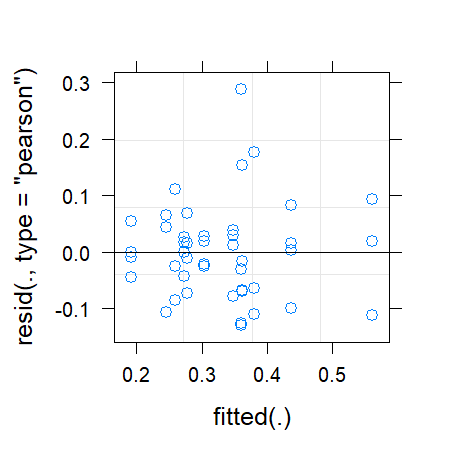
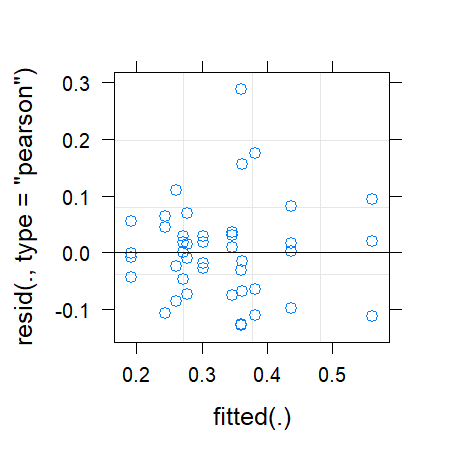
changing markdown file of community variability

diff --git a/Community Variability Analyses/Community-Variability-Analyses.md b/Community Variability Analyses/Community-Variability-Analyses.md
@@ -14,25 +14,9 @@ library(Pelinson.et.al.2020B)
 
 ``` r
 library(lme4)
-```
-
-    ## Loading required package: Matrix
-
-``` r
 library(car)
-```
-
-    ## Loading required package: carData
-
-    ## Registered S3 methods overwritten by 'car':
-    ##   method                          from
-    ##   influence.merMod                lme4
-    ##   cooks.distance.influence.merMod lme4
-    ##   dfbeta.influence.merMod         lme4
-    ##   dfbetas.influence.merMod        lme4
-
-``` r
 library(emmeans)
+library(vegan)
 ```
 
 ## Community Variability
@@ -52,27 +36,10 @@ Computing observed and expected distances to centroid, and
 beta-deviation.
 
 ``` r
-beta_deviation_SS2_SS3 <- beta_deviation(com_SS2_SS3, strata = All, times = 1000,
+beta_deviation_SS2_SS3 <- beta_deviation(com_SS2_SS3, strata = All, times = 10000,
                                       transform = NULL, dist = "bray", fixedmar="both",
                                       shuffle = "both", method = "quasiswap", seed = 2, group = All) 
 ```
-
-    ## Loading required package: vegan
-
-    ## Loading required package: permute
-
-    ## Loading required package: lattice
-
-    ## This is vegan 2.5-6
-
-    ## Warning in betadisper(null_dissim, group = group, type = "centroid", bias.adjust
-    ## = T): some squared distances are negative and changed to zero
-    
-    ## Warning in betadisper(null_dissim, group = group, type = "centroid", bias.adjust
-    ## = T): some squared distances are negative and changed to zero
-    
-    ## Warning in betadisper(null_dissim, group = group, type = "centroid", bias.adjust
-    ## = T): some squared distances are negative and changed to zero
 
 Looking at residual plots for observed, expected distances to centroids
 and deviations.
@@ -112,11 +79,6 @@ qqline(resid(fit_expected_SS2_SS3_G, type = "pearson"))
 
 ``` r
 fit_deviation_SS2_SS3_G <- lmer(beta_deviation_SS2_SS3$deviation_distances~fish_SS2_SS3*isolation_SS2_SS3*SS_SS2_SS3 + (1|ID_SS2_SS3), REML = F)
-```
-
-    ## boundary (singular) fit: see ?isSingular
-
-``` r
 plot(fit_deviation_SS2_SS3_G)
 ```
 
@@ -240,14 +202,14 @@ round(Anova(fit_expected_SS2_SS3, test.statistic = "F"),3)
     ## Analysis of Deviance Table (Type II Wald F tests with Kenward-Roger df)
     ## 
     ## Response: beta_deviation_SS2_SS3$expected_distances
-    ##                                               F Df Df.res Pr(>F)  
-    ## fish_SS2_SS3                              0.011  1 16.626  0.918  
-    ## isolation_SS2_SS3                         3.608  2 16.546  0.050 *
-    ## SS_SS2_SS3                                3.509  1 16.421  0.079 .
-    ## fish_SS2_SS3:isolation_SS2_SS3            4.120  2 16.651  0.035 *
-    ## fish_SS2_SS3:SS_SS2_SS3                   0.156  1 16.574  0.698  
-    ## isolation_SS2_SS3:SS_SS2_SS3              6.073  2 16.483  0.011 *
-    ## fish_SS2_SS3:isolation_SS2_SS3:SS_SS2_SS3 3.325  2 16.604  0.061 .
+    ##                                               F Df Df.res Pr(>F)   
+    ## fish_SS2_SS3                              0.013  1 16.626  0.909   
+    ## isolation_SS2_SS3                         3.489  2 16.546  0.054 . 
+    ## SS_SS2_SS3                                3.588  1 16.421  0.076 . 
+    ## fish_SS2_SS3:isolation_SS2_SS3            4.117  2 16.651  0.035 * 
+    ## fish_SS2_SS3:SS_SS2_SS3                   0.167  1 16.574  0.688   
+    ## isolation_SS2_SS3:SS_SS2_SS3              6.199  2 16.483  0.010 **
+    ## fish_SS2_SS3:isolation_SS2_SS3:SS_SS2_SS3 3.383  2 16.604  0.059 . 
     ## ---
     ## Signif. codes:  0 '***' 0.001 '**' 0.01 '*' 0.05 '.' 0.1 ' ' 1
 
@@ -258,27 +220,27 @@ emmeans(fit_expected_SS2_SS3, list(pairwise ~ isolation_SS2_SS3|fish_SS2_SS3|SS_
     ## $`emmeans of isolation_SS2_SS3 | fish_SS2_SS3, SS_SS2_SS3`
     ## fish_SS2_SS3 = absent, SS_SS2_SS3 = 2:
     ##  isolation_SS2_SS3 emmean     SE df lower.CL upper.CL
-    ##  30                 0.273 0.0488 32   0.1502    0.396
-    ##  120                0.348 0.0488 32   0.2248    0.470
-    ##  480                0.278 0.0488 32   0.1552    0.401
+    ##  30                 0.271 0.0488 32   0.1482    0.394
+    ##  120                0.346 0.0488 32   0.2235    0.469
+    ##  480                0.278 0.0488 32   0.1551    0.401
     ## 
     ## fish_SS2_SS3 = present, SS_SS2_SS3 = 2:
     ##  isolation_SS2_SS3 emmean     SE df lower.CL upper.CL
-    ##  30                 0.304 0.0488 32   0.1815    0.427
-    ##  120                0.437 0.0488 32   0.3141    0.560
-    ##  480                0.192 0.0488 32   0.0688    0.314
+    ##  30                 0.303 0.0488 32   0.1797    0.425
+    ##  120                0.437 0.0488 32   0.3145    0.560
+    ##  480                0.192 0.0488 32   0.0688    0.315
     ## 
     ## fish_SS2_SS3 = absent, SS_SS2_SS3 = 3:
     ##  isolation_SS2_SS3 emmean     SE df lower.CL upper.CL
-    ##  30                 0.362 0.0488 32   0.2392    0.485
-    ##  120                0.360 0.0488 32   0.2377    0.483
-    ##  480                0.380 0.0573 32   0.2360    0.525
+    ##  30                 0.362 0.0488 32   0.2388    0.484
+    ##  120                0.360 0.0488 32   0.2371    0.483
+    ##  480                0.381 0.0573 32   0.2365    0.525
     ## 
     ## fish_SS2_SS3 = present, SS_SS2_SS3 = 3:
     ##  isolation_SS2_SS3 emmean     SE df lower.CL upper.CL
     ##  30                 0.561 0.0573 32   0.4164    0.705
-    ##  120                0.246 0.0573 32   0.1012    0.390
-    ##  480                0.259 0.0573 32   0.1148    0.403
+    ##  120                0.243 0.0573 32   0.0990    0.388
+    ##  480                0.261 0.0573 32   0.1162    0.405
     ## 
     ## Degrees-of-freedom method: kenward-roger 
     ## Confidence level used: 0.95 
@@ -287,27 +249,27 @@ emmeans(fit_expected_SS2_SS3, list(pairwise ~ isolation_SS2_SS3|fish_SS2_SS3|SS_
     ## $`pairwise differences of isolation_SS2_SS3 | fish_SS2_SS3, SS_SS2_SS3`
     ## fish_SS2_SS3 = absent, SS_SS2_SS3 = 2:
     ##  contrast  estimate     SE df t.ratio p.value
-    ##  30 - 120  -0.07455 0.0690 32 -1.081  0.5324 
-    ##  30 - 480  -0.00495 0.0690 32 -0.072  0.9972 
-    ##  120 - 480  0.06960 0.0690 32  1.009  0.5765 
+    ##  30 - 120  -0.07533 0.0690 32 -1.092  0.5256 
+    ##  30 - 480  -0.00687 0.0690 32 -0.100  0.9945 
+    ##  120 - 480  0.06846 0.0690 32  0.993  0.5866 
     ## 
     ## fish_SS2_SS3 = present, SS_SS2_SS3 = 2:
     ##  contrast  estimate     SE df t.ratio p.value
-    ##  30 - 120  -0.13265 0.0690 32 -1.924  0.1484 
-    ##  30 - 480   0.11266 0.0690 32  1.634  0.2464 
-    ##  120 - 480  0.24531 0.0690 32  3.558  0.0033 
+    ##  30 - 120  -0.13478 0.0690 32 -1.955  0.1401 
+    ##  30 - 480   0.11089 0.0690 32  1.608  0.2569 
+    ##  120 - 480  0.24566 0.0690 32  3.563  0.0033 
     ## 
     ## fish_SS2_SS3 = absent, SS_SS2_SS3 = 3:
     ##  contrast  estimate     SE df t.ratio p.value
-    ##  30 - 120   0.00156 0.0690 32  0.023  0.9997 
-    ##  30 - 480  -0.01827 0.0752 32 -0.243  0.9681 
-    ##  120 - 480 -0.01983 0.0752 32 -0.264  0.9625 
+    ##  30 - 120   0.00173 0.0690 32  0.025  0.9997 
+    ##  30 - 480  -0.01923 0.0752 32 -0.256  0.9647 
+    ##  120 - 480 -0.02096 0.0752 32 -0.279  0.9582 
     ## 
     ## fish_SS2_SS3 = present, SS_SS2_SS3 = 3:
     ##  contrast  estimate     SE df t.ratio p.value
-    ##  30 - 120   0.31516 0.0810 32  3.890  0.0014 
-    ##  30 - 480   0.30162 0.0810 32  3.722  0.0021 
-    ##  120 - 480 -0.01355 0.0810 32 -0.167  0.9847 
+    ##  30 - 120   0.31735 0.0810 32  3.916  0.0013 
+    ##  30 - 480   0.30015 0.0810 32  3.704  0.0022 
+    ##  120 - 480 -0.01720 0.0810 32 -0.212  0.9755 
     ## 
     ## Degrees-of-freedom method: kenward-roger 
     ## P value adjustment: tukey method for comparing a family of 3 estimates
@@ -357,13 +319,13 @@ round(Anova(fit_deviation_SS2_SS3, test.statistic = "F"),3)
     ## 
     ## Response: beta_deviation_SS2_SS3$deviation_distances
     ##                                               F Df Df.res Pr(>F)  
-    ## fish_SS2_SS3                              4.147  1 16.626  0.058 .
-    ## isolation_SS2_SS3                         2.687  2 16.546  0.098 .
-    ## SS_SS2_SS3                                1.183  1 16.421  0.292  
-    ## fish_SS2_SS3:isolation_SS2_SS3            4.454  2 16.651  0.028 *
-    ## fish_SS2_SS3:SS_SS2_SS3                   0.082  1 16.574  0.778  
-    ## isolation_SS2_SS3:SS_SS2_SS3              1.148  2 16.483  0.341  
-    ## fish_SS2_SS3:isolation_SS2_SS3:SS_SS2_SS3 1.239  2 16.604  0.315  
+    ## fish_SS2_SS3                              4.114  1 16.637  0.059 .
+    ## isolation_SS2_SS3                         2.360  2 16.556  0.125  
+    ## SS_SS2_SS3                                1.043  1 16.408  0.322  
+    ## fish_SS2_SS3:isolation_SS2_SS3            4.620  2 16.661  0.025 *
+    ## fish_SS2_SS3:SS_SS2_SS3                   0.091  1 16.562  0.767  
+    ## isolation_SS2_SS3:SS_SS2_SS3              1.221  2 16.470  0.320  
+    ## fish_SS2_SS3:isolation_SS2_SS3:SS_SS2_SS3 1.277  2 16.592  0.305  
     ## ---
     ## Signif. codes:  0 '***' 0.001 '**' 0.01 '*' 0.05 '.' 0.1 ' ' 1
 
@@ -374,15 +336,15 @@ emmeans(fit_deviation_SS2_SS3, list(pairwise ~ isolation_SS2_SS3|fish_SS2_SS3), 
     ## $`emmeans of isolation_SS2_SS3 | fish_SS2_SS3`
     ## fish_SS2_SS3 = absent:
     ##  isolation_SS2_SS3  emmean    SE   df lower.CL upper.CL
-    ##  30                 0.0307 0.552 14.9   -1.452     1.51
-    ##  120                2.4530 0.552 14.9    0.970     3.94
-    ##  480                2.3710 0.602 17.4    0.781     3.96
+    ##  30                 0.0434 0.556 14.9   -1.449     1.54
+    ##  120                2.5286 0.556 14.9    1.036     4.02
+    ##  480                2.3009 0.606 17.4    0.701     3.90
     ## 
     ## fish_SS2_SS3 = present:
     ##  isolation_SS2_SS3  emmean    SE   df lower.CL upper.CL
-    ##  30                 0.9238 0.602 17.4   -0.666     2.51
-    ##  120               -0.1080 0.602 17.4   -1.698     1.48
-    ##  480                1.2432 0.602 17.4   -0.347     2.83
+    ##  30                 0.9768 0.606 17.4   -0.623     2.58
+    ##  120               -0.0801 0.606 17.4   -1.680     1.52
+    ##  480                1.1787 0.606 17.4   -0.421     2.78
     ## 
     ## Results are averaged over the levels of: SS_SS2_SS3 
     ## Degrees-of-freedom method: kenward-roger 
@@ -392,15 +354,15 @@ emmeans(fit_deviation_SS2_SS3, list(pairwise ~ isolation_SS2_SS3|fish_SS2_SS3), 
     ## $`pairwise differences of isolation_SS2_SS3 | fish_SS2_SS3`
     ## fish_SS2_SS3 = absent:
     ##  contrast  estimate    SE   df t.ratio p.value
-    ##  30 - 120    -2.422 0.780 14.9 -3.103  0.0188 
-    ##  30 - 480    -2.340 0.817 16.2 -2.865  0.0284 
-    ##  120 - 480    0.082 0.817 16.2  0.100  0.9945 
+    ##  30 - 120    -2.485 0.786 14.9 -3.163  0.0167 
+    ##  30 - 480    -2.257 0.822 16.2 -2.746  0.0359 
+    ##  120 - 480    0.228 0.822 16.2  0.277  0.9587 
     ## 
     ## fish_SS2_SS3 = present:
     ##  contrast  estimate    SE   df t.ratio p.value
-    ##  30 - 120     1.032 0.852 17.4  1.212  0.4623 
-    ##  30 - 480    -0.319 0.852 17.4 -0.375  0.9257 
-    ##  120 - 480   -1.351 0.852 17.4 -1.587  0.2775 
+    ##  30 - 120     1.057 0.857 17.4  1.234  0.4500 
+    ##  30 - 480    -0.202 0.857 17.4 -0.236  0.9699 
+    ##  120 - 480   -1.259 0.857 17.4 -1.469  0.3293 
     ## 
     ## Results are averaged over the levels of: SS_SS2_SS3 
     ## Degrees-of-freedom method: kenward-roger 
